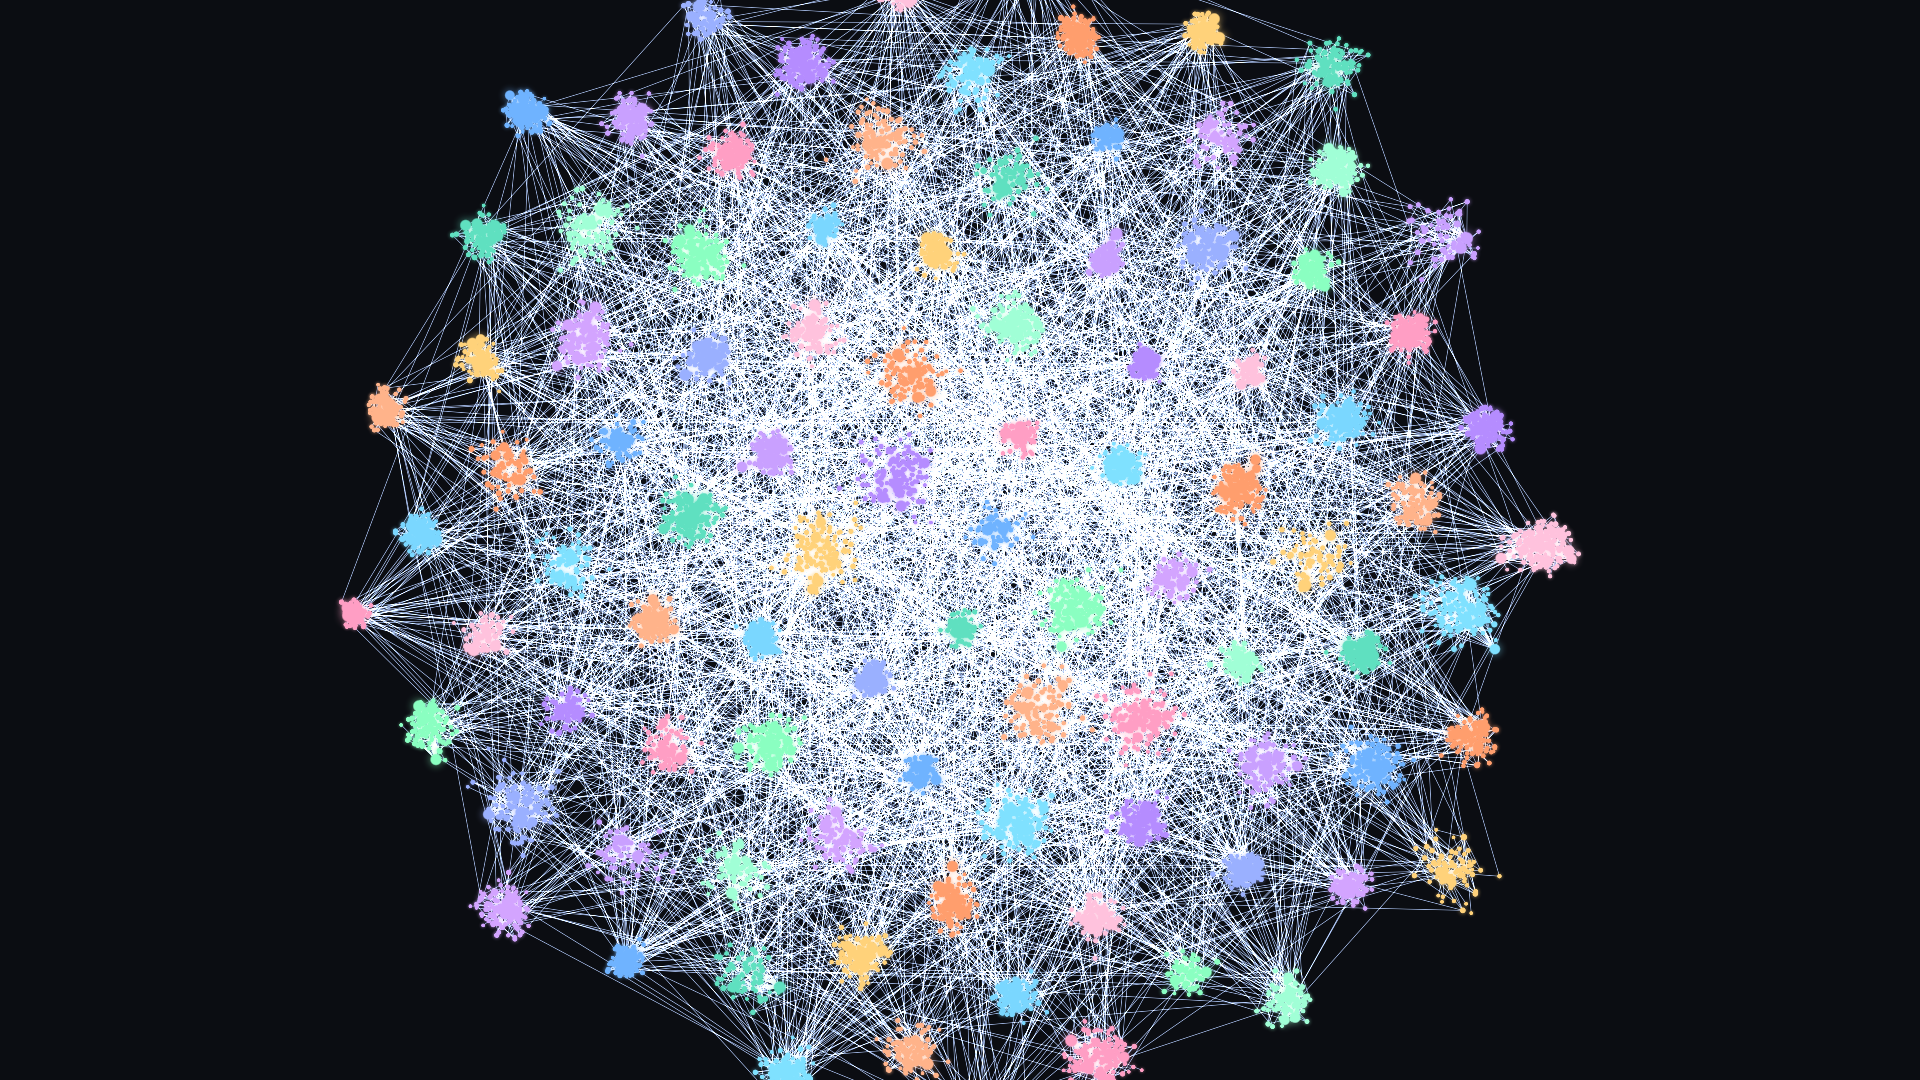
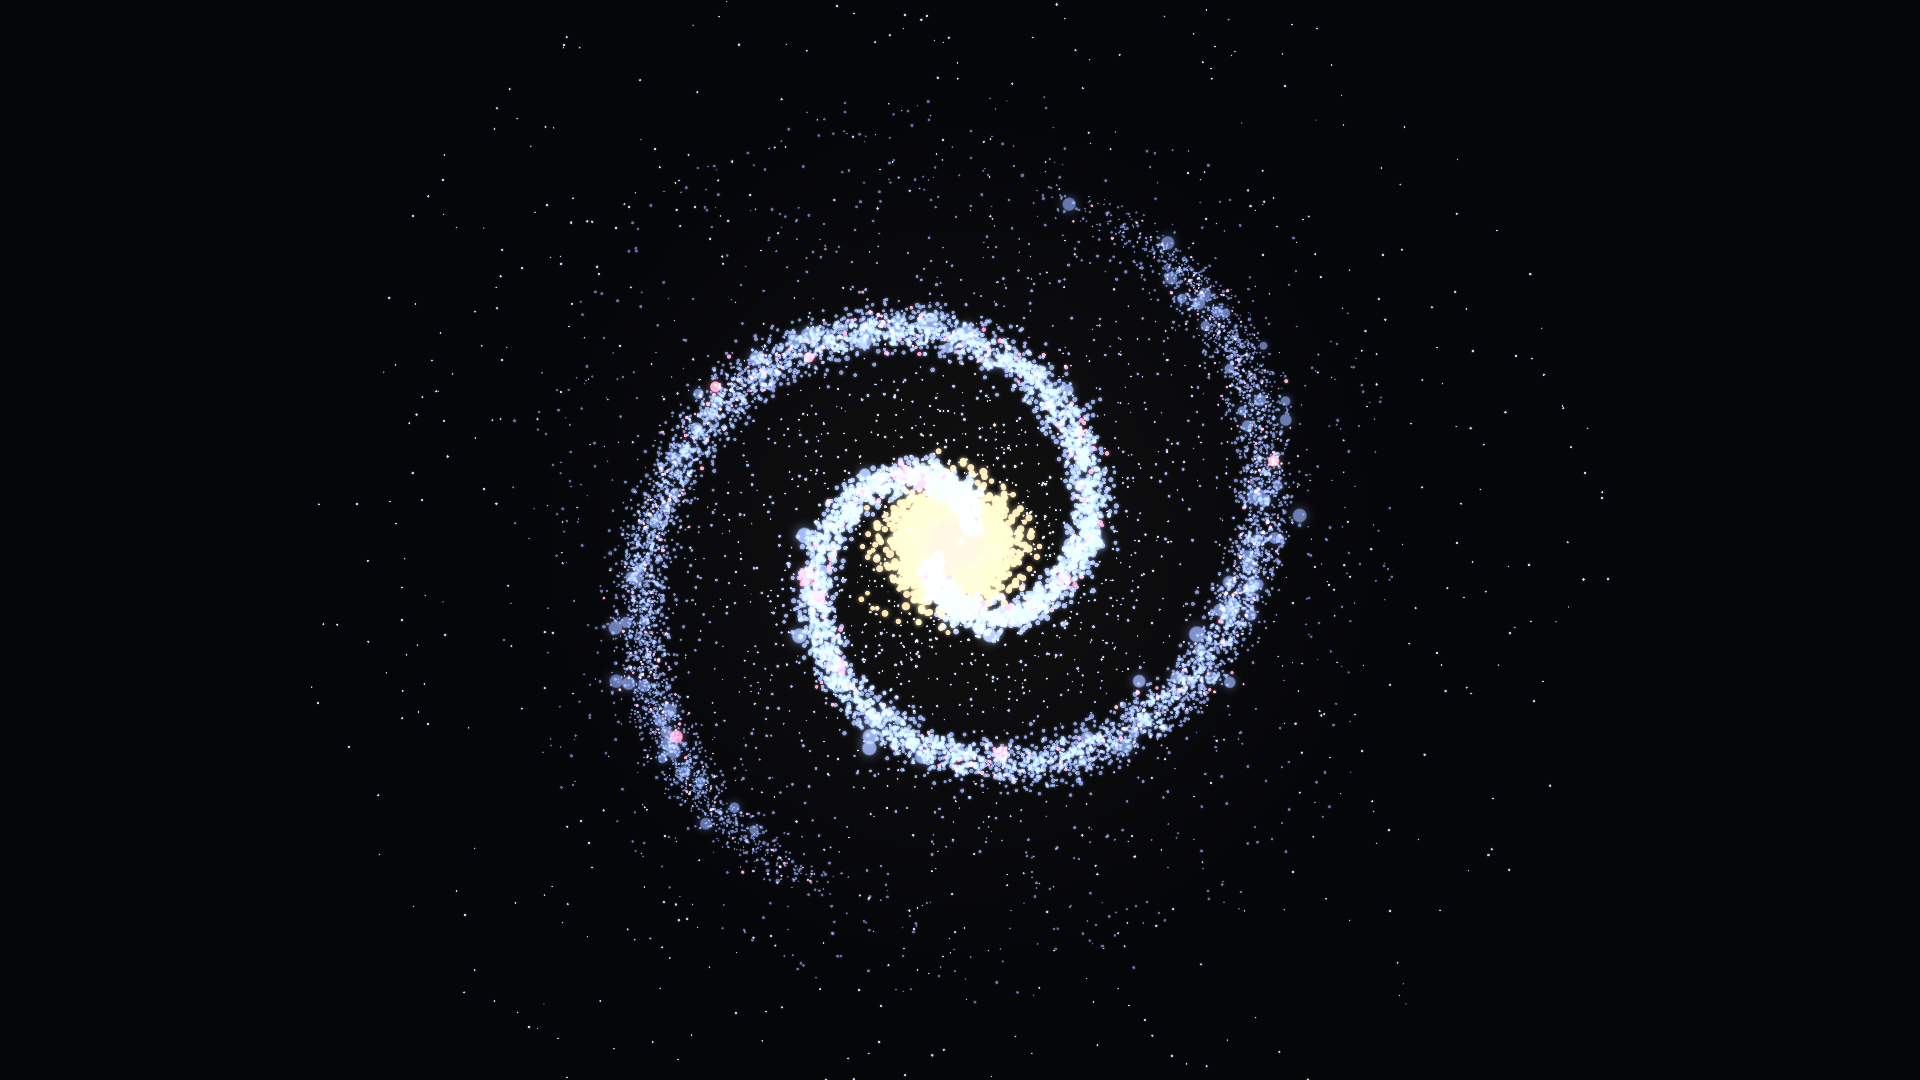
docs(memex): redo hero as a real spiral galaxy
The previous 12k-node hero read as an edge hairball, not a galaxy. Re-render
big-graph.ts as an actual spiral galaxy (~17k glowing stars): a warm white-gold
bulge that blooms at the core, two logarithmic spiral arms of blue-white stars
with pink star-forming regions, a faint halo, and a deep-space field — no
edges (galaxies are points of light, not networks). Update the hero image and
captions in README.md and README-ko.md.

diff --git a/app/src/bigGraph.ts b/app/src/bigGraph.ts
@@ -1,27 +1,26 @@
-// DEV-ONLY standalone hero render: a large (~12k node) community-clustered
-// knowledge galaxy in Memex's exact visual style (glow stars, cosmic palette,
-// faint cosmic-web edges, dark background). Used only to capture the README
-// hero image via Playwright — never bundled into the app.
+// DEV-ONLY hero render: a ~14k-star SPIRAL GALAXY in Memex's glow-star style,
+// for the README hero image (captured via Playwright). Never bundled into the
+// app (no entry imports it; big-graph.html is dev-served only).
 //
-// Positions are precomputed (cluster layout), so there is no force simulation
-// to settle: it renders instantly and identically every time, which is what we
-// want for a screenshot at this scale.
+// This is a galaxy, not a network diagram: a dense warm bulge, two logarithmic
+// spiral arms of blue-white stars dotted with pink star-forming regions, and a
+// faint outer halo — over dark space, with bloom from the glow node program.
+// Edges are intentionally omitted: galaxies are points of light, and an edge
+// web reads as a hairball, not a galaxy.
 import Graph from "graphology";
 import Sigma from "sigma";
 import { fitViewportToNodes } from "@sigma/utils";
 import NodeGlowProgram from "./lib/graphNodeGlow";
 
-// Cosmic palette — same family the app uses in graphData.ts.
-const PALETTE = [
-  "#6fb3ff", "#b58cff", "#5fe0c0", "#ff9ec4", "#ffd27a", "#8affc1",
-  "#ff9e6d", "#9ab0ff", "#7fe1ff", "#c9a0ff", "#ffb38a", "#a0ffd6",
-  "#7ad7ff", "#d3a4ff", "#ffc2dd",
-];
+const R = 3000; // galaxy radius in world units
+const N_BULGE = 5200;
+const N_ARMS = 9500;
+const N_HALO = 1600;
+const N_FIELD = 1100; // faint deep-space field stars scattered across the frame
+const ARMS = 2;
+const TURNS = 1.15; // how far each arm winds (in turns) across the disk
 
-const N_COMMUNITIES = 95;
-const NODE_TARGET = 12000;
-
-// Standard normal via Box–Muller — gives soft gaussian clusters.
+// Standard normal (Box–Muller).
 function randn(): number {
   let u = 0, v = 0;
   while (u === 0) u = Math.random();
@@ -29,77 +28,92 @@ function randn(): number {
   return Math.sqrt(-2 * Math.log(u)) * Math.cos(2 * Math.PI * v);
 }
 
+// Radius-based star colour: warm white core -> golden -> blue-white arms ->
+// faint blue halo. Returned with an alpha that fades outward for depth.
+function starColor(f: number): string {
+  // f: 0 at core, 1 at rim.
+  const stops: [number, [number, number, number]][] = [
+    [0.0, [255, 246, 222]],
+    [0.12, [255, 226, 168]],
+    [0.3, [206, 224, 255]],
+    [0.55, [159, 182, 240]],
+    [1.0, [96, 112, 162]],
+  ];
+  let lo = stops[0], hi = stops[stops.length - 1];
+  for (let i = 0; i < stops.length - 1; i++) {
+    if (f >= stops[i][0] && f <= stops[i + 1][0]) {
+      lo = stops[i];
+      hi = stops[i + 1];
+      break;
+    }
+  }
+  const t = (f - lo[0]) / Math.max(1e-6, hi[0] - lo[0]);
+  const r = Math.round(lo[1][0] + (hi[1][0] - lo[1][0]) * t);
+  const g = Math.round(lo[1][1] + (hi[1][1] - lo[1][1]) * t);
+  const b = Math.round(lo[1][2] + (hi[1][2] - lo[1][2]) * t);
+  const alpha = (0.95 - 0.5 * f).toFixed(2); // core bright, rim faint
+  return `rgba(${r},${g},${b},${alpha})`;
+}
+
 function build(): Graph {
   const g = new Graph({ type: "undirected" });
-  const golden = Math.PI * (3 - Math.sqrt(5));
-  const centers: { x: number; y: number; color: string }[] = [];
-  for (let c = 0; c < N_COMMUNITIES; c++) {
-    const r = 4200 * Math.sqrt((c + 0.5) / N_COMMUNITIES);
-    const a = c * golden;
-    centers.push({ x: Math.cos(a) * r, y: Math.sin(a) * r, color: PALETTE[c % PALETTE.length] });
-  }
-
-  const perComm = Math.round(NODE_TARGET / N_COMMUNITIES);
-  const communities: string[][] = [];
   let id = 0;
-  for (let c = 0; c < N_COMMUNITIES; c++) {
-    const ctr = centers[c];
-    const spread = 45 + Math.random() * 70;
-    const count = Math.max(20, Math.round(perComm * (0.5 + Math.random())));
-    const arr: string[] = [];
-    for (let k = 0; k < count; k++) {
-      const nid = `n${id++}`;
-      g.addNode(nid, {
-        x: ctr.x + randn() * spread,
-        y: ctr.y + randn() * spread,
-        size: 1.2,
-        color: ctr.color,
-      });
-      arr.push(nid);
-    }
-    communities.push(arr);
-  }
-
-  let edgeKey = 0;
-  const addEdge = (a: string, b: string, alpha: number): void => {
-    if (a === b || g.hasEdge(a, b)) return;
-    g.addEdgeWithKey(`e${edgeKey++}`, a, b, {
-      size: 0.45,
-      color: `rgba(150,170,210,${alpha})`,
-    });
+  const add = (x: number, y: number, size: number, color: string): void => {
+    g.addNode(`s${id++}`, { x, y, size, color });
   };
 
-  // Intra-community: hub-and-spoke so each cluster reads as a little galaxy.
-  for (const arr of communities) {
-    const hubCount = Math.max(1, Math.floor(arr.length * 0.04));
-    const hubs = arr.slice(0, hubCount);
-    for (const n of arr) {
-      const links = 1 + Math.floor(Math.random() * 2);
-      for (let d = 0; d < links; d++) {
-        const target =
-          Math.random() < 0.65
-            ? hubs[Math.floor(Math.random() * hubs.length)]
-            : arr[Math.floor(Math.random() * arr.length)];
-        addEdge(n, target, 0.05);
-      }
-    }
+  // --- Central bulge: dense, bright, warm. Blooms to a white-gold core. ---
+  for (let i = 0; i < N_BULGE; i++) {
+    const rr = Math.abs(randn()) * R * 0.08;
+    const a = Math.random() * Math.PI * 2;
+    const f = Math.min(1, rr / R);
+    const size = Math.max(1.1, 3.6 - f * 6 + Math.abs(randn()) * 0.7);
+    add(Math.cos(a) * rr, Math.sin(a) * rr, size, starColor(f * 0.4));
   }
-  // Sparse inter-community filaments.
-  for (let i = 0; i < N_COMMUNITIES * 30; i++) {
-    const ca = communities[Math.floor(Math.random() * N_COMMUNITIES)];
-    const cb = communities[Math.floor(Math.random() * N_COMMUNITIES)];
-    addEdge(
-      ca[Math.floor(Math.random() * ca.length)],
-      cb[Math.floor(Math.random() * cb.length)],
-      0.03,
-    );
+  // A few big bright giants right at the centre for a strong core bloom.
+  for (let i = 0; i < 40; i++) {
+    const rr = Math.abs(randn()) * R * 0.025;
+    const a = Math.random() * Math.PI * 2;
+    add(Math.cos(a) * rr, Math.sin(a) * rr, 7 + Math.random() * 6, "rgba(255,248,228,1)");
   }
 
-  // Size by degree: hubs become bright giant stars, leaves stay points.
-  g.forEachNode((n) => {
-    const deg = g.degree(n);
-    g.setNodeAttribute(n, "size", Math.max(1, Math.min(9, 1 + Math.sqrt(deg) * 0.8)));
-  });
+  // --- Spiral arms: log spiral, blue-white, with pink star-forming regions. ---
+  for (let i = 0; i < N_ARMS; i++) {
+    const arm = i % ARMS;
+    // bias radius inward so density falls with distance
+    const u = Math.pow(Math.random(), 0.55);
+    const r = R * (0.04 + 0.96 * u);
+    const f = r / R;
+    const phase = (arm / ARMS) * Math.PI * 2;
+    // logarithmic winding + angular scatter (arms widen outward)
+    const theta = phase + TURNS * 2 * Math.PI * Math.log(1 + r / R) / Math.log(2) + randn() * (0.10 + 0.10 * f);
+    const rJit = r + randn() * R * 0.02;
+    const x = Math.cos(theta) * rJit;
+    const y = Math.sin(theta) * rJit;
+    const giant = Math.random() < 0.015;
+    let size = Math.max(0.7, (1 - f) * 2.0 + 0.6 + Math.abs(randn()) * 0.4);
+    if (giant) size += 2.5 + Math.random() * 3;
+    // ~6% of arm stars are pink/red HII regions for colour pop.
+    const color = Math.random() < 0.06
+      ? `rgba(255,${150 + Math.floor(Math.random() * 40)},${190 + Math.floor(Math.random() * 30)},${(0.85 - 0.4 * f).toFixed(2)})`
+      : starColor(0.3 + f * 0.7);
+    add(x, y, size, color);
+  }
+
+  // --- Faint halo: sparse, dim, scattered field stars around the disk. ---
+  for (let i = 0; i < N_HALO; i++) {
+    const r = R * (0.2 + Math.random() * 1.05);
+    const a = Math.random() * Math.PI * 2;
+    add(Math.cos(a) * r, Math.sin(a) * r, 0.6 + Math.random() * 0.8, starColor(Math.min(1, r / R)));
+  }
+
+  // --- Deep-space field: tiny faint stars across the whole frame for depth. ---
+  for (let i = 0; i < N_FIELD; i++) {
+    const r = R * (0.1 + Math.random() * 1.7);
+    const a = Math.random() * Math.PI * 2;
+    const dim = (0.18 + Math.random() * 0.25).toFixed(2);
+    add(Math.cos(a) * r, Math.sin(a) * r, 0.5 + Math.random() * 0.6, `rgba(200,212,240,${dim})`);
+  }
 
   return g;
 }
@@ -110,18 +124,15 @@ if (container) {
   const renderer = new Sigma(graph, container as HTMLElement, {
     defaultNodeType: "glow",
     nodeProgramClasses: { glow: NodeGlowProgram },
-    defaultEdgeColor: "rgba(150,170,210,0.05)",
     renderLabels: false,
     renderEdgeLabels: false,
     zIndex: false,
     enableEdgeEvents: false,
   });
   fitViewportToNodes(renderer, graph.nodes(), { animate: false });
-  // Zoom in a touch so the galaxy fills the frame.
   const cam = renderer.getCamera();
-  cam.setState({ ratio: cam.getState().ratio * 0.82 });
-  // Expose stats for the capture harness.
+  cam.setState({ ratio: cam.getState().ratio * 0.78 });
   (window as unknown as { __graphReady?: boolean; __nodeCount?: number }).__graphReady = true;
   (window as unknown as { __nodeCount?: number }).__nodeCount = graph.order;
-  console.info("[bigGraph] rendered", graph.order, "nodes,", graph.size, "edges");
+  console.info("[bigGraph] rendered galaxy:", graph.order, "stars");
 }

diff --git a/app/big-graph.html b/app/big-graph.html
@@ -11,8 +11,13 @@
         margin: 0;
         height: 100%;
         width: 100%;
-        background: #0b0d12;
         overflow: hidden;
+      }
+      body {
+        /* deep space with a faint warm core glow behind the bulge */
+        background:
+          radial-gradient(circle at 50% 50%, rgba(80, 70, 50, 0.18) 0%, rgba(10, 10, 18, 0) 38%),
+          #05060a;
       }
     </style>
   </head>

diff --git a/README-ko.md b/README-ko.md
@@ -35,7 +35,7 @@
 
 <img src="docs/screenshots/hero-graph.png" width="100%" alt="Memex 지식 그래프 — 커뮤니티별로 색칠된 수천 개의 상호 연결 노트" />
 
-<sub><em>Memex vault를 지식 은하로 시각화 — 노트는 별, <code>[[wikilink]]</code>은 엣지, 커뮤니티별 색상.</em></sub>
+<sub><em>Memex vault를 지식 은하로 시각화 — 모든 노트가 빛나는 별.</em></sub>
 
 </div>
 

diff --git a/README.md b/README.md
@@ -35,7 +35,7 @@ Your knowledge compounds — in plain markdown you own.
 
 <img src="docs/screenshots/hero-graph.png" width="100%" alt="Memex knowledge graph — thousands of cross-linked notes clustered into colored communities" />
 
-<sub><em>A Memex vault visualized as a knowledge galaxy — every note a star, every <code>[[wikilink]]</code> an edge, colored by community.</em></sub>
+<sub><em>A Memex vault as a knowledge galaxy — every note a glowing star.</em></sub>
 
 </div>
 